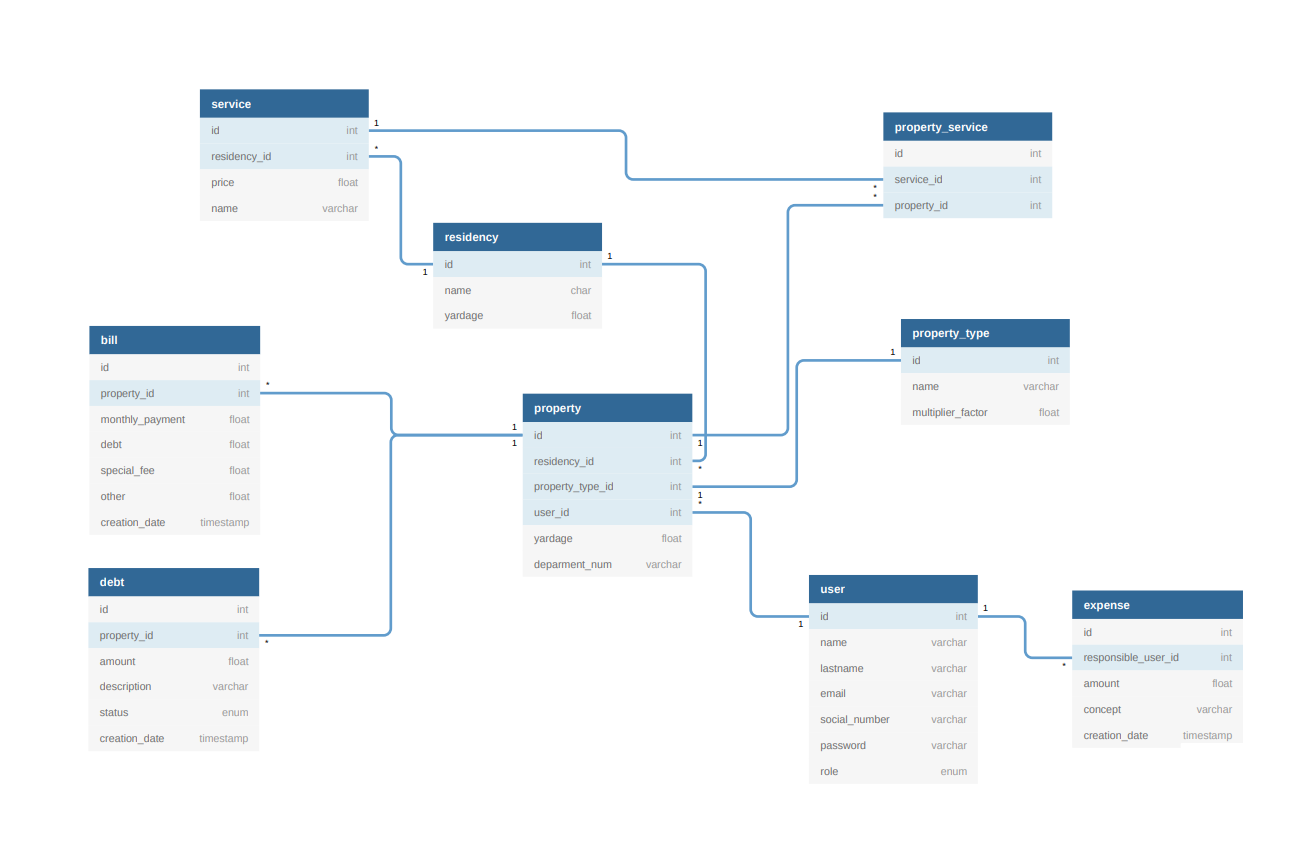
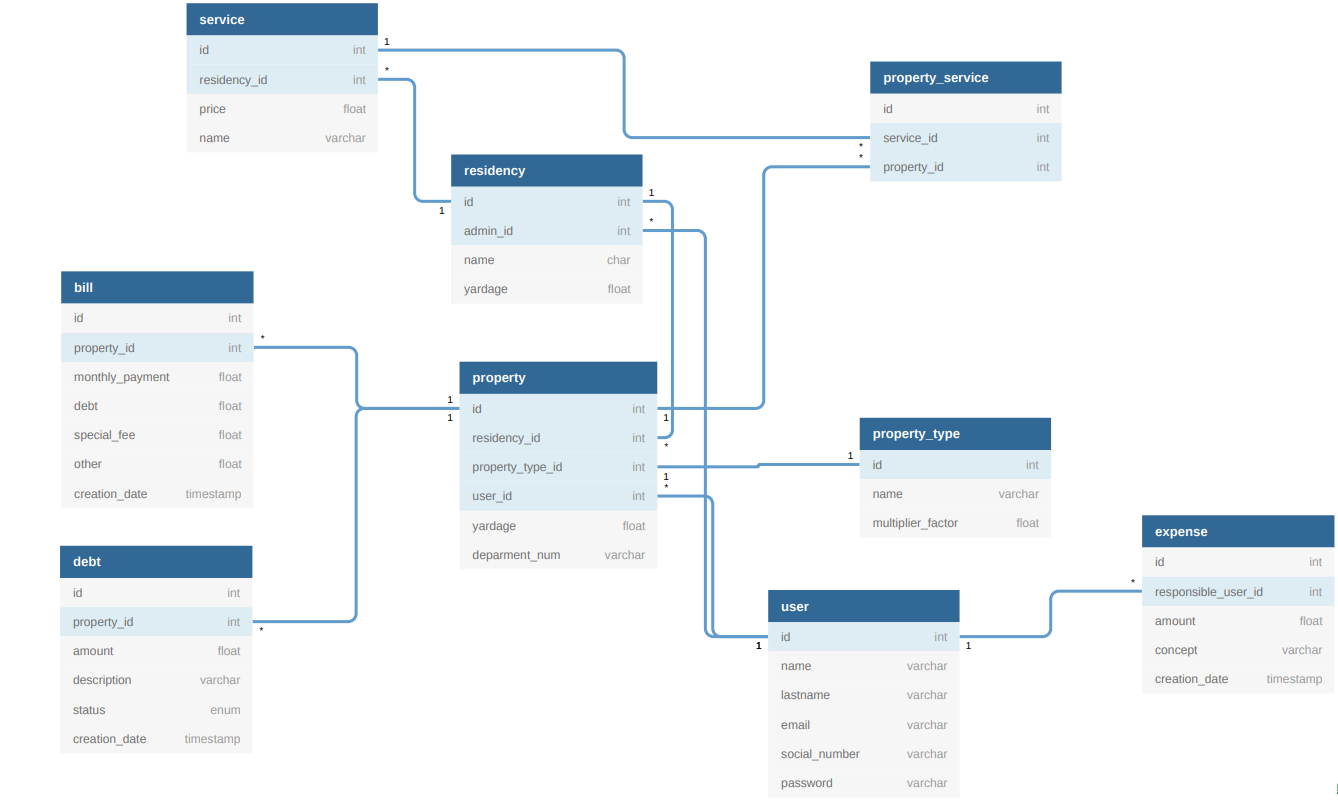
Improve db model, Add Residency table & create endpoint, Add jwtVerify util func

diff --git a/app.js b/app.js
@@ -16,6 +16,7 @@ const apiSecret = { secret: 'MYCO-SECRET-SSHHHH' };
 const swaggerDocument = require('./docs/swagger.json');
 const apiSchemas = require('./src/api/schemas');
 const { connect, promisifyQuery } = require('./src/db');
+const utils = require('./src/utils');
 
 const saltRounds = 10;
 const PORT = 5000;
@@ -49,7 +50,7 @@ const PORT = 5000;
       name,
       lastname,
       email,
-      social_number: socialNumber,
+      social_number,
       role,
       password,
     } = credentials;
@@ -61,7 +62,7 @@ const PORT = 5000;
       INSERT INTO user
         (name, lastname, email, social_number, role, password)
       VALUES
-        ('${name}', '${lastname}', '${email}', '${socialNumber}', '${role}', '${hash}')
+        ('${name}', '${lastname}', '${email}', '${social_number}', '${role}', '${hash}')
       `;
 
       await promisifyQuery(connection, query);
@@ -103,19 +104,76 @@ const PORT = 5000;
     }
   });
 
-  app.get('/residency/residents', async (req, res) => {
-    let user;
-    const { authorization } = req.headers;
 
-    if (!authorization) return res.status(400).send('Missing token');
+  /* --------------------- BILLS --------------------- */
+
+  // GET
+
+  // POST
+
+  // PUT
+
+  /* --------------------- DEBTS --------------------- */
+  // GET
+
+  // POST
+
+  // PUT
+
+  /* --------------------- PROPERTY --------------------- */
+  // GET
+
+  // POST
+
+  // PUT
+
+  /* ------------------- PROPERTY-TYPE ------------------- */
+  // GET
+
+  // POST
+
+  // PUT
+
+  /* --------------------- SERVICE --------------------- */
+  // GET
+
+  // POST
+
+  // PUT
+
+  /* --------------------- RESIDENCY --------------------- */
+
+  app.post('/residency/create', async (req, res) => {
+    const user = utils.verifyToken(res, req.headers);
+
+    if (user.role !== 'ADMIN') {
+      return res.status(403).send('Forbidden');
+    }
+
+    const residency = await schema.validate(req.body, apiSchemas.residency)
+      .catch((error) => {
+        res.status(400).send(error);
+      });
+
+    const { admin_id, name } = residency;
 
     try {
-      const regexp = /Bearer\s+(.+)/gi;
-      const token = regexp.exec(authorization)[1];
-      user = jwt.verify(token, apiSecret.secret);
+      const query1 = `
+      INSERT INTO residency
+        (admin_id, name)
+      VALUES
+        ('${admin_id}', '${name}')
+      `;
+
+      await promisifyQuery(connection, query1);
+      return res.status(200).send('Successfully created residency');
     } catch (error) {
-      return res.status(401).send('Invalid token');
+      return res.status(409).send(`Conflict:\n${error}`);
     }
+  });
+
+  app.get('/residency/residents', async (req, res) => {
+    const user = utils.verifyToken(res, req.headers);
 
     if (user.role !== 'ADMIN') {
       return res.status(403).send('Forbidden');

diff --git a/src/utils/verifyToken.js b/src/utils/verifyToken.js
@@ -1,0 +1,17 @@
+const jwt = require('jsonwebtoken');
+
+const apiSecret = { secret: 'MYCO-SECRET-SSHHHH' };
+
+function verifyToken(res, { authorization }) {
+  if (!authorization) return res.status(400).send('Missing token');
+
+  try {
+    const regexp = /Bearer\s+(.+)/gi;
+    const token = regexp.exec(authorization)[1];
+    return jwt.verify(token, apiSecret.secret);
+  } catch (error) {
+    return res.status(401).send('Invalid token');
+  }
+}
+
+module.exports = verifyToken;

diff --git a/src/db/utils/connect.js b/src/db/utils/connect.js
@@ -5,7 +5,9 @@ const setup = require('./setup');
 
 const credentials = {
   production: {
-
+    host: process.env.CLEARDB_DATABASE_URL,
+    user: process.env.CLEARDB_DATABASE_USER,
+    password: process.env.CLEARDB_DATABASE_PASSWORD,
   },
   development: {
     host: process.env.DEV_DB_HOST,

diff --git a/src/db/tables/Residency/index.js b/src/db/tables/Residency/index.js
@@ -1,0 +1,10 @@
+const Residency = {
+  name: 'residency',
+  fields: `
+    id INT NOT NULL PRIMARY KEY AUTO_INCREMENT,
+    admin_id VARCHAR(256),
+    name VARCHAR(256)
+  `,
+};
+
+module.exports = Residency;

diff --git a/src/api/schemas/Residency/create.js b/src/api/schemas/Residency/create.js
@@ -1,0 +1,6 @@
+const schema = require('schm');
+
+module.exports = schema({
+  admin_id: { type: String, required: true },
+  name: { type: String, required: true },
+});

diff --git a/src/db/tables/index.js b/src/db/tables/index.js
@@ -1,7 +1,9 @@
 const User = require('./User');
+const Residency = require('./Residency');
 
 const tables = [
   User,
+  Residency,
 ];
 
 module.exports = tables;

diff --git a/src/utils/index.js b/src/utils/index.js
@@ -1,0 +1,5 @@
+const verifyToken = require('./verifyToken');
+
+module.exports = {
+  verifyToken,
+};

diff --git a/README.md b/README.md
@@ -6,6 +6,7 @@
 | ------------------------- | ------ | ---------- |
 | /register                 | POST   | ✔          |
 | /login                    | POST   | ✔          |
+| /residency/create         | POST   | 🗙          |
 | /residency/services       | POST   | 🗙          |
 | /property/services        | POST   | 🗙          |
 | /residency/properties     | POST   | 🗙          |
